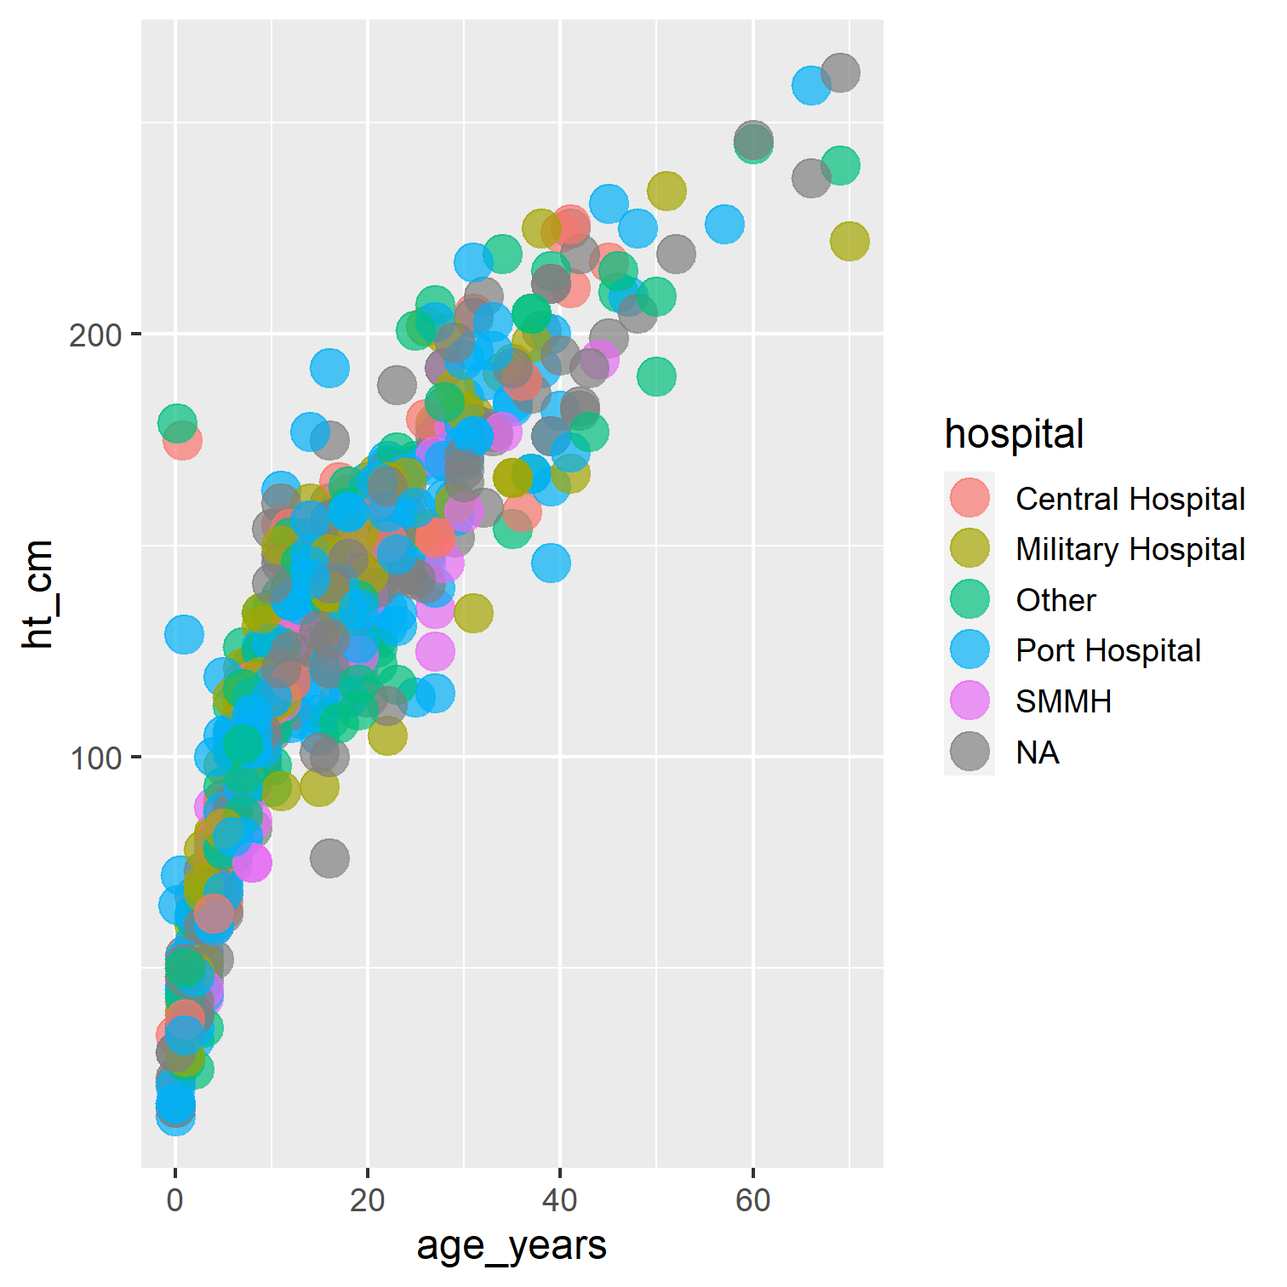
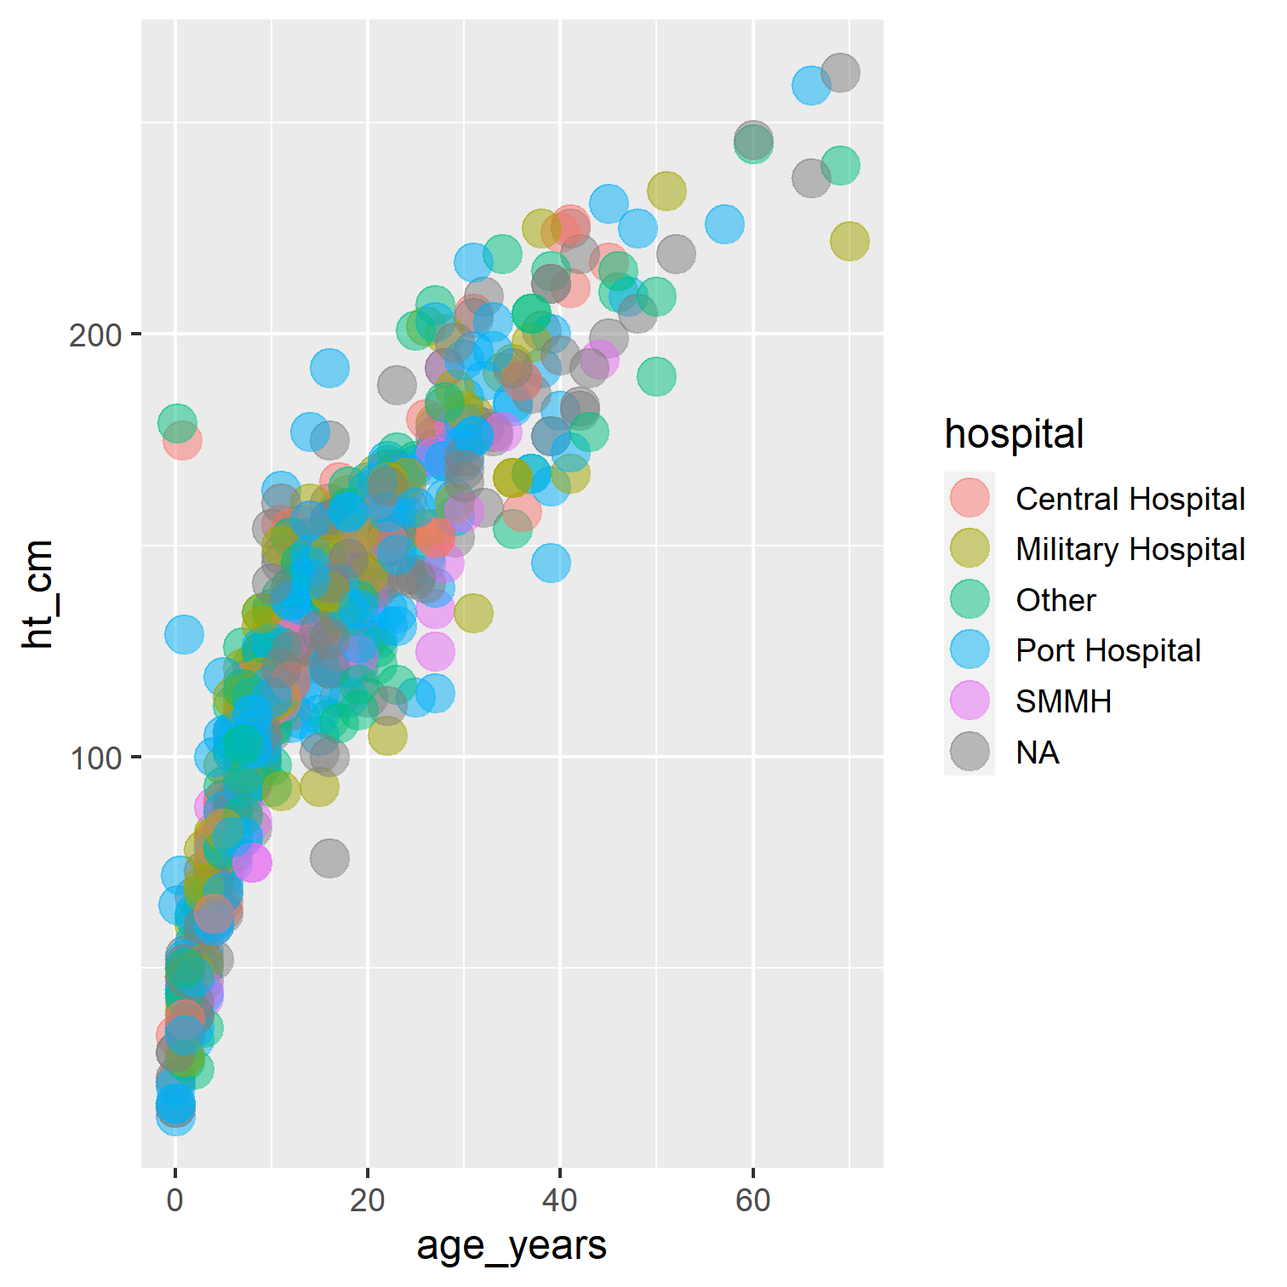
minor_updates

diff --git a/intro/full_text/intro5_1/intro5_1.html b/intro/full_text/intro5_1/intro5_1.html
@@ -78,7 +78,7 @@ contact@appliedepi.org
 * Build simple box/scatter/bar plots and histograms
 * Adjust the scales, themes, and labels of the plots
 
-&lt;div class="tabwid"&gt;&lt;style&gt;.cl-b065eaa6{}.cl-b05a17c6{font-family:'Arial';font-size:11pt;font-weight:normal;font-style:normal;text-decoration:none;color:rgba(0, 0, 0, 1.00);background-color:transparent;}.cl-b05e81f8{margin:0;text-align:left;border-bottom: 0 solid rgba(0, 0, 0, 1.00);border-top: 0 solid rgba(0, 0, 0, 1.00);border-left: 0 solid rgba(0, 0, 0, 1.00);border-right: 0 solid rgba(0, 0, 0, 1.00);padding-bottom:5pt;padding-top:5pt;padding-left:5pt;padding-right:5pt;line-height: 1;background-color:transparent;}.cl-b05e820c{margin:0;text-align:left;border-bottom: 0 solid rgba(0, 0, 0, 1.00);border-top: 0 solid rgba(0, 0, 0, 1.00);border-left: 0 solid rgba(0, 0, 0, 1.00);border-right: 0 solid rgba(0, 0, 0, 1.00);padding-bottom:5pt;padding-top:5pt;padding-left:5pt;padding-right:5pt;line-height: 1;background-color:transparent;}.cl-b05e9b16{width:1.296in;background-color:transparent;vertical-align: middle;border-bottom: 1.5pt solid rgba(102, 102, 102, 1.00);border-top: 1.5pt solid rgba(102, 102, 102, 1.00);border-left: 0 solid rgba(0, 0, 0, 1.00);border-right: 0 solid rgba(0, 0, 0, 1.00);margin-bottom:0;margin-top:0;margin-left:0;margin-right:0;}.cl-b05e9b20{width:0.693in;background-color:transparent;vertical-align: middle;border-bottom: 1.5pt solid rgba(102, 102, 102, 1.00);border-top: 1.5pt solid rgba(102, 102, 102, 1.00);border-left: 0 solid rgba(0, 0, 0, 1.00);border-right: 0 solid rgba(0, 0, 0, 1.00);margin-bottom:0;margin-top:0;margin-left:0;margin-right:0;}.cl-b05e9b21{width:2.857in;background-color:transparent;vertical-align: middle;border-bottom: 1.5pt solid rgba(102, 102, 102, 1.00);border-top: 1.5pt solid rgba(102, 102, 102, 1.00);border-left: 0 solid rgba(0, 0, 0, 1.00);border-right: 0 solid rgba(0, 0, 0, 1.00);margin-bottom:0;margin-top:0;margin-left:0;margin-right:0;}.cl-b05e9b22{width:1.296in;background-color:transparent;vertical-align: middle;border-bottom: 0 solid rgba(0, 0, 0, 1.00);border-top: 0 solid rgba(0, 0, 0, 1.00);border-left: 0 solid rgba(0, 0, 0, 1.00);border-right: 0 solid rgba(0, 0, 0, 1.00);margin-bottom:0;margin-top:0;margin-left:0;margin-right:0;}.cl-b05e9b2a{width:0.693in;background-color:transparent;vertical-align: top;border-bottom: 0 solid rgba(0, 0, 0, 1.00);border-top: 0 solid rgba(0, 0, 0, 1.00);border-left: 0 solid rgba(0, 0, 0, 1.00);border-right: 0 solid rgba(0, 0, 0, 1.00);margin-bottom:0;margin-top:0;margin-left:0;margin-right:0;}.cl-b05e9b2b{width:2.857in;background-color:transparent;vertical-align: middle;border-bottom: 0 solid rgba(0, 0, 0, 1.00);border-top: 0 solid rgba(0, 0, 0, 1.00);border-left: 0 solid rgba(0, 0, 0, 1.00);border-right: 0 solid rgba(0, 0, 0, 1.00);margin-bottom:0;margin-top:0;margin-left:0;margin-right:0;}.cl-b05e9b34{width:1.296in;background-color:transparent;vertical-align: middle;border-bottom: 0 solid rgba(0, 0, 0, 1.00);border-top: 0 solid rgba(0, 0, 0, 1.00);border-left: 0 solid rgba(0, 0, 0, 1.00);border-right: 0 solid rgba(0, 0, 0, 1.00);margin-bottom:0;margin-top:0;margin-left:0;margin-right:0;}.cl-b05e9b35{width:0.693in;background-color:transparent;vertical-align: top;border-bottom: 0 solid rgba(0, 0, 0, 1.00);border-top: 0 solid rgba(0, 0, 0, 1.00);border-left: 0 solid rgba(0, 0, 0, 1.00);border-right: 0 solid rgba(0, 0, 0, 1.00);margin-bottom:0;margin-top:0;margin-left:0;margin-right:0;}.cl-b05e9b3e{width:2.857in;background-color:transparent;vertical-align: middle;border-bottom: 0 solid rgba(0, 0, 0, 1.00);border-top: 0 solid rgba(0, 0, 0, 1.00);border-left: 0 solid rgba(0, 0, 0, 1.00);border-right: 0 solid rgba(0, 0, 0, 1.00);margin-bottom:0;margin-top:0;margin-left:0;margin-right:0;}.cl-b05e9b3f{width:1.296in;background-color:transparent;vertical-align: middle;border-bottom: 0 solid rgba(0, 0, 0, 1.00);border-top: 0 solid rgba(0, 0, 0, 1.00);border-left: 0 solid rgba(0, 0, 0, 1.00);border-right: 0 solid rgba(0, 0, 0, 1.00);margin-bottom:0;margin-top:0;margin-left:0;margin-right:0;}.cl-b05e9b48{width:0.693in;background-color:transparent;vertical-align: top;border-bottom: 0 solid rgba(0, 0, 0, 1.00);border-top: 0 solid rgba(0, 0, 0, 1.00);border-left: 0 solid rgba(0, 0, 0, 1.00);border-right: 0 solid rgba(0, 0, 0, 1.00);margin-bottom:0;margin-top:0;margin-left:0;margin-right:0;}.cl-b05e9b49{width:2.857in;background-color:transparent;vertical-align: middle;border-bottom: 0 solid rgba(0, 0, 0, 1.00);border-top: 0 solid rgba(0, 0, 0, 1.00);border-left: 0 solid rgba(0, 0, 0, 1.00);border-right: 0 solid rgba(0, 0, 0, 1.00);margin-bottom:0;margin-top:0;margin-left:0;margin-right:0;}.cl-b05e9b52{width:1.296in;background-color:transparent;vertical-align: middle;border-bottom: 0 solid rgba(0, 0, 0, 1.00);border-top: 0 solid rgba(0, 0, 0, 1.00);border-left: 0 solid rgba(0, 0, 0, 1.00);border-right: 0 solid rgba(0, 0, 0, 1.00);margin-bottom:0;margin-top:0;margin-left:0;margin-right:0;}.cl-b05e9b53{width:0.693in;background-color:transparent;vertical-align: top;border-bottom: 0 solid rgba(0, 0, 0, 1.00);border-top: 0 solid rgba(0, 0, 0, 1.00);border-left: 0 solid rgba(0, 0, 0, 1.00);border-right: 0 solid rgba(0, 0, 0, 1.00);margin-bottom:0;margin-top:0;margin-left:0;margin-right:0;}.cl-b05e9b54{width:2.857in;background-color:transparent;vertical-align: middle;border-bottom: 0 solid rgba(0, 0, 0, 1.00);border-top: 0 solid rgba(0, 0, 0, 1.00);border-left: 0 solid rgba(0, 0, 0, 1.00);border-right: 0 solid rgba(0, 0, 0, 1.00);margin-bottom:0;margin-top:0;margin-left:0;margin-right:0;}.cl-b05e9b5c{width:1.296in;background-color:transparent;vertical-align: middle;border-bottom: 0 solid rgba(0, 0, 0, 1.00);border-top: 0 solid rgba(0, 0, 0, 1.00);border-left: 0 solid rgba(0, 0, 0, 1.00);border-right: 0 solid rgba(0, 0, 0, 1.00);margin-bottom:0;margin-top:0;margin-left:0;margin-right:0;}.cl-b05e9b5d{width:0.693in;background-color:transparent;vertical-align: top;border-bottom: 0 solid rgba(0, 0, 0, 1.00);border-top: 0 solid rgba(0, 0, 0, 1.00);border-left: 0 solid rgba(0, 0, 0, 1.00);border-right: 0 solid rgba(0, 0, 0, 1.00);margin-bottom:0;margin-top:0;margin-left:0;margin-right:0;}.cl-b05e9b66{width:2.857in;background-color:transparent;vertical-align: middle;border-bottom: 0 solid rgba(0, 0, 0, 1.00);border-top: 0 solid rgba(0, 0, 0, 1.00);border-left: 0 solid rgba(0, 0, 0, 1.00);border-right: 0 solid rgba(0, 0, 0, 1.00);margin-bottom:0;margin-top:0;margin-left:0;margin-right:0;}.cl-b05e9b67{width:1.296in;background-color:transparent;vertical-align: middle;border-bottom: 1.5pt solid rgba(102, 102, 102, 1.00);border-top: 0 solid rgba(0, 0, 0, 1.00);border-left: 0 solid rgba(0, 0, 0, 1.00);border-right: 0 solid rgba(0, 0, 0, 1.00);margin-bottom:0;margin-top:0;margin-left:0;margin-right:0;}.cl-b05e9b68{width:0.693in;background-color:transparent;vertical-align: top;border-bottom: 1.5pt solid rgba(102, 102, 102, 1.00);border-top: 0 solid rgba(0, 0, 0, 1.00);border-left: 0 solid rgba(0, 0, 0, 1.00);border-right: 0 solid rgba(0, 0, 0, 1.00);margin-bottom:0;margin-top:0;margin-left:0;margin-right:0;}.cl-b05e9b70{width:2.857in;background-color:transparent;vertical-align: middle;border-bottom: 1.5pt solid rgba(102, 102, 102, 1.00);border-top: 0 solid rgba(0, 0, 0, 1.00);border-left: 0 solid rgba(0, 0, 0, 1.00);border-right: 0 solid rgba(0, 0, 0, 1.00);margin-bottom:0;margin-top:0;margin-left:0;margin-right:0;}.cl-b05e9b71{width:1.296in;background-color:transparent;vertical-align: middle;border-bottom: 0 solid rgba(255, 255, 255, 0.00);border-top: 0 solid rgba(255, 255, 255, 0.00);border-left: 0 solid rgba(255, 255, 255, 0.00);border-right: 0 solid rgba(255, 255, 255, 0.00);margin-bottom:0;margin-top:0;margin-left:0;margin-right:0;}.cl-b05e9b7a{width:0.693in;background-color:transparent;vertical-align: middle;border-bottom: 0 solid rgba(255, 255, 255, 0.00);border-top: 0 solid rgba(255, 255, 255, 0.00);border-left: 0 solid rgba(255, 255, 255, 0.00);border-right: 0 solid rgba(255, 255, 255, 0.00);margin-bottom:0;margin-top:0;margin-left:0;margin-right:0;}.cl-b05e9b7b{width:2.857in;background-color:transparent;vertical-align: middle;border-bottom: 0 solid rgba(255, 255, 255, 0.00);border-top: 0 solid rgba(255, 255, 255, 0.00);border-left: 0 solid rgba(255, 255, 255, 0.00);border-right: 0 solid rgba(255, 255, 255, 0.00);margin-bottom:0;margin-top:0;margin-left:0;margin-right:0;}&lt;/style&gt;&lt;table data-quarto-disable-processing='true' class='cl-b065eaa6'&gt;&lt;thead&gt;&lt;tr style="overflow-wrap:break-word;"&gt;&lt;th class="cl-b05e9b16"&gt;&lt;p class="cl-b05e81f8"&gt;&lt;span class="cl-b05a17c6"&gt;Time&lt;/span&gt;&lt;/p&gt;&lt;/th&gt;&lt;th class="cl-b05e9b20"&gt;&lt;p class="cl-b05e81f8"&gt;&lt;span class="cl-b05a17c6"&gt;Part&lt;/span&gt;&lt;/p&gt;&lt;/th&gt;&lt;th class="cl-b05e9b21"&gt;&lt;p class="cl-b05e81f8"&gt;&lt;span class="cl-b05a17c6"&gt;Topic&lt;/span&gt;&lt;/p&gt;&lt;/th&gt;&lt;/tr&gt;&lt;/thead&gt;&lt;tbody&gt;&lt;tr style="overflow-wrap:break-word;"&gt;&lt;td class="cl-b05e9b22"&gt;&lt;p class="cl-b05e81f8"&gt;&lt;span class="cl-b05a17c6"&gt;20 minutes&lt;/span&gt;&lt;/p&gt;&lt;/td&gt;&lt;td  rowspan="3"class="cl-b05e9b2a"&gt;&lt;p class="cl-b05e820c"&gt;&lt;span class="cl-b05a17c6"&gt;Part 1&lt;/span&gt;&lt;/p&gt;&lt;/td&gt;&lt;td class="cl-b05e9b2b"&gt;&lt;p class="cl-b05e81f8"&gt;&lt;span class="cl-b05a17c6"&gt;Slides: ggplot2 'Grammar of Graphics'&lt;/span&gt;&lt;/p&gt;&lt;/td&gt;&lt;/tr&gt;&lt;tr style="overflow-wrap:break-word;"&gt;&lt;td class="cl-b05e9b34"&gt;&lt;p class="cl-b05e81f8"&gt;&lt;span class="cl-b05a17c6"&gt;10 minutes&lt;/span&gt;&lt;/p&gt;&lt;/td&gt;&lt;td class="cl-b05e9b3e"&gt;&lt;p class="cl-b05e81f8"&gt;&lt;span class="cl-b05a17c6"&gt;Demo&lt;/span&gt;&lt;/p&gt;&lt;/td&gt;&lt;/tr&gt;&lt;tr style="overflow-wrap:break-word;"&gt;&lt;td class="cl-b05e9b3f"&gt;&lt;p class="cl-b05e81f8"&gt;&lt;span class="cl-b05a17c6"&gt;1hr 30 minutes&lt;/span&gt;&lt;/p&gt;&lt;/td&gt;&lt;td class="cl-b05e9b49"&gt;&lt;p class="cl-b05e81f8"&gt;&lt;span class="cl-b05a17c6"&gt;Exercise&lt;/span&gt;&lt;/p&gt;&lt;/td&gt;&lt;/tr&gt;&lt;tr style="overflow-wrap:break-word;"&gt;&lt;td class="cl-b05e9b52"&gt;&lt;p class="cl-b05e81f8"&gt;&lt;span class="cl-b05a17c6"&gt;20 minutes&lt;/span&gt;&lt;/p&gt;&lt;/td&gt;&lt;td class="cl-b05e9b53"&gt;&lt;p class="cl-b05e820c"&gt;&lt;span class="cl-b05a17c6"&gt;Part 2&lt;/span&gt;&lt;/p&gt;&lt;/td&gt;&lt;td class="cl-b05e9b54"&gt;&lt;p class="cl-b05e81f8"&gt;&lt;span class="cl-b05a17c6"&gt;Slides: Scales, themes &amp;amp; labels&lt;/span&gt;&lt;/p&gt;&lt;/td&gt;&lt;/tr&gt;&lt;tr style="overflow-wrap:break-word;"&gt;&lt;td class="cl-b05e9b5c"&gt;&lt;p class="cl-b05e81f8"&gt;&lt;span class="cl-b05a17c6"&gt;1 hour&lt;/span&gt;&lt;/p&gt;&lt;/td&gt;&lt;td class="cl-b05e9b5d"&gt;&lt;p class="cl-b05e820c"&gt;&lt;span class="cl-b05a17c6"&gt;&lt;/span&gt;&lt;/p&gt;&lt;/td&gt;&lt;td class="cl-b05e9b66"&gt;&lt;p class="cl-b05e81f8"&gt;&lt;span class="cl-b05a17c6"&gt;Exercise&lt;/span&gt;&lt;/p&gt;&lt;/td&gt;&lt;/tr&gt;&lt;tr style="overflow-wrap:break-word;"&gt;&lt;td class="cl-b05e9b67"&gt;&lt;p class="cl-b05e81f8"&gt;&lt;span class="cl-b05a17c6"&gt;10 minutes&lt;/span&gt;&lt;/p&gt;&lt;/td&gt;&lt;td class="cl-b05e9b68"&gt;&lt;p class="cl-b05e820c"&gt;&lt;span class="cl-b05a17c6"&gt;-&lt;/span&gt;&lt;/p&gt;&lt;/td&gt;&lt;td class="cl-b05e9b70"&gt;&lt;p class="cl-b05e81f8"&gt;&lt;span class="cl-b05a17c6"&gt;Debrief&lt;/span&gt;&lt;/p&gt;&lt;/td&gt;&lt;/tr&gt;&lt;/tbody&gt;&lt;tfoot&gt;&lt;tr style="overflow-wrap:break-word;"&gt;&lt;td  colspan="3"class="cl-b05e9b71"&gt;&lt;p class="cl-b05e81f8"&gt;&lt;span class="cl-b05a17c6"&gt;Take breaks as you wish during the exercise&lt;/span&gt;&lt;/p&gt;&lt;/td&gt;&lt;/tr&gt;&lt;/tfoot&gt;&lt;/table&gt;&lt;/div&gt;
+&lt;div class="tabwid"&gt;&lt;style&gt;.cl-3c37b7f8{}.cl-3c2fe596{font-family:'Arial';font-size:11pt;font-weight:normal;font-style:normal;text-decoration:none;color:rgba(0, 0, 0, 1.00);background-color:transparent;}.cl-3c32e412{margin:0;text-align:left;border-bottom: 0 solid rgba(0, 0, 0, 1.00);border-top: 0 solid rgba(0, 0, 0, 1.00);border-left: 0 solid rgba(0, 0, 0, 1.00);border-right: 0 solid rgba(0, 0, 0, 1.00);padding-bottom:5pt;padding-top:5pt;padding-left:5pt;padding-right:5pt;line-height: 1;background-color:transparent;}.cl-3c32e41c{margin:0;text-align:left;border-bottom: 0 solid rgba(0, 0, 0, 1.00);border-top: 0 solid rgba(0, 0, 0, 1.00);border-left: 0 solid rgba(0, 0, 0, 1.00);border-right: 0 solid rgba(0, 0, 0, 1.00);padding-bottom:5pt;padding-top:5pt;padding-left:5pt;padding-right:5pt;line-height: 1;background-color:transparent;}.cl-3c32f650{width:1.296in;background-color:transparent;vertical-align: middle;border-bottom: 1.5pt solid rgba(102, 102, 102, 1.00);border-top: 1.5pt solid rgba(102, 102, 102, 1.00);border-left: 0 solid rgba(0, 0, 0, 1.00);border-right: 0 solid rgba(0, 0, 0, 1.00);margin-bottom:0;margin-top:0;margin-left:0;margin-right:0;}.cl-3c32f65a{width:0.693in;background-color:transparent;vertical-align: middle;border-bottom: 1.5pt solid rgba(102, 102, 102, 1.00);border-top: 1.5pt solid rgba(102, 102, 102, 1.00);border-left: 0 solid rgba(0, 0, 0, 1.00);border-right: 0 solid rgba(0, 0, 0, 1.00);margin-bottom:0;margin-top:0;margin-left:0;margin-right:0;}.cl-3c32f65b{width:2.857in;background-color:transparent;vertical-align: middle;border-bottom: 1.5pt solid rgba(102, 102, 102, 1.00);border-top: 1.5pt solid rgba(102, 102, 102, 1.00);border-left: 0 solid rgba(0, 0, 0, 1.00);border-right: 0 solid rgba(0, 0, 0, 1.00);margin-bottom:0;margin-top:0;margin-left:0;margin-right:0;}.cl-3c32f664{width:1.296in;background-color:transparent;vertical-align: middle;border-bottom: 0 solid rgba(0, 0, 0, 1.00);border-top: 0 solid rgba(0, 0, 0, 1.00);border-left: 0 solid rgba(0, 0, 0, 1.00);border-right: 0 solid rgba(0, 0, 0, 1.00);margin-bottom:0;margin-top:0;margin-left:0;margin-right:0;}.cl-3c32f665{width:0.693in;background-color:transparent;vertical-align: top;border-bottom: 0 solid rgba(0, 0, 0, 1.00);border-top: 0 solid rgba(0, 0, 0, 1.00);border-left: 0 solid rgba(0, 0, 0, 1.00);border-right: 0 solid rgba(0, 0, 0, 1.00);margin-bottom:0;margin-top:0;margin-left:0;margin-right:0;}.cl-3c32f66e{width:2.857in;background-color:transparent;vertical-align: middle;border-bottom: 0 solid rgba(0, 0, 0, 1.00);border-top: 0 solid rgba(0, 0, 0, 1.00);border-left: 0 solid rgba(0, 0, 0, 1.00);border-right: 0 solid rgba(0, 0, 0, 1.00);margin-bottom:0;margin-top:0;margin-left:0;margin-right:0;}.cl-3c32f66f{width:1.296in;background-color:transparent;vertical-align: middle;border-bottom: 0 solid rgba(0, 0, 0, 1.00);border-top: 0 solid rgba(0, 0, 0, 1.00);border-left: 0 solid rgba(0, 0, 0, 1.00);border-right: 0 solid rgba(0, 0, 0, 1.00);margin-bottom:0;margin-top:0;margin-left:0;margin-right:0;}.cl-3c32f670{width:0.693in;background-color:transparent;vertical-align: top;border-bottom: 0 solid rgba(0, 0, 0, 1.00);border-top: 0 solid rgba(0, 0, 0, 1.00);border-left: 0 solid rgba(0, 0, 0, 1.00);border-right: 0 solid rgba(0, 0, 0, 1.00);margin-bottom:0;margin-top:0;margin-left:0;margin-right:0;}.cl-3c32f678{width:2.857in;background-color:transparent;vertical-align: middle;border-bottom: 0 solid rgba(0, 0, 0, 1.00);border-top: 0 solid rgba(0, 0, 0, 1.00);border-left: 0 solid rgba(0, 0, 0, 1.00);border-right: 0 solid rgba(0, 0, 0, 1.00);margin-bottom:0;margin-top:0;margin-left:0;margin-right:0;}.cl-3c32f679{width:1.296in;background-color:transparent;vertical-align: middle;border-bottom: 0 solid rgba(0, 0, 0, 1.00);border-top: 0 solid rgba(0, 0, 0, 1.00);border-left: 0 solid rgba(0, 0, 0, 1.00);border-right: 0 solid rgba(0, 0, 0, 1.00);margin-bottom:0;margin-top:0;margin-left:0;margin-right:0;}.cl-3c32f67a{width:0.693in;background-color:transparent;vertical-align: top;border-bottom: 0 solid rgba(0, 0, 0, 1.00);border-top: 0 solid rgba(0, 0, 0, 1.00);border-left: 0 solid rgba(0, 0, 0, 1.00);border-right: 0 solid rgba(0, 0, 0, 1.00);margin-bottom:0;margin-top:0;margin-left:0;margin-right:0;}.cl-3c32f67b{width:2.857in;background-color:transparent;vertical-align: middle;border-bottom: 0 solid rgba(0, 0, 0, 1.00);border-top: 0 solid rgba(0, 0, 0, 1.00);border-left: 0 solid rgba(0, 0, 0, 1.00);border-right: 0 solid rgba(0, 0, 0, 1.00);margin-bottom:0;margin-top:0;margin-left:0;margin-right:0;}.cl-3c32f682{width:1.296in;background-color:transparent;vertical-align: middle;border-bottom: 0 solid rgba(0, 0, 0, 1.00);border-top: 0 solid rgba(0, 0, 0, 1.00);border-left: 0 solid rgba(0, 0, 0, 1.00);border-right: 0 solid rgba(0, 0, 0, 1.00);margin-bottom:0;margin-top:0;margin-left:0;margin-right:0;}.cl-3c32f683{width:0.693in;background-color:transparent;vertical-align: top;border-bottom: 0 solid rgba(0, 0, 0, 1.00);border-top: 0 solid rgba(0, 0, 0, 1.00);border-left: 0 solid rgba(0, 0, 0, 1.00);border-right: 0 solid rgba(0, 0, 0, 1.00);margin-bottom:0;margin-top:0;margin-left:0;margin-right:0;}.cl-3c32f68c{width:2.857in;background-color:transparent;vertical-align: middle;border-bottom: 0 solid rgba(0, 0, 0, 1.00);border-top: 0 solid rgba(0, 0, 0, 1.00);border-left: 0 solid rgba(0, 0, 0, 1.00);border-right: 0 solid rgba(0, 0, 0, 1.00);margin-bottom:0;margin-top:0;margin-left:0;margin-right:0;}.cl-3c32f68d{width:1.296in;background-color:transparent;vertical-align: middle;border-bottom: 0 solid rgba(0, 0, 0, 1.00);border-top: 0 solid rgba(0, 0, 0, 1.00);border-left: 0 solid rgba(0, 0, 0, 1.00);border-right: 0 solid rgba(0, 0, 0, 1.00);margin-bottom:0;margin-top:0;margin-left:0;margin-right:0;}.cl-3c32f68e{width:0.693in;background-color:transparent;vertical-align: top;border-bottom: 0 solid rgba(0, 0, 0, 1.00);border-top: 0 solid rgba(0, 0, 0, 1.00);border-left: 0 solid rgba(0, 0, 0, 1.00);border-right: 0 solid rgba(0, 0, 0, 1.00);margin-bottom:0;margin-top:0;margin-left:0;margin-right:0;}.cl-3c32f696{width:2.857in;background-color:transparent;vertical-align: middle;border-bottom: 0 solid rgba(0, 0, 0, 1.00);border-top: 0 solid rgba(0, 0, 0, 1.00);border-left: 0 solid rgba(0, 0, 0, 1.00);border-right: 0 solid rgba(0, 0, 0, 1.00);margin-bottom:0;margin-top:0;margin-left:0;margin-right:0;}.cl-3c32f697{width:1.296in;background-color:transparent;vertical-align: middle;border-bottom: 1.5pt solid rgba(102, 102, 102, 1.00);border-top: 0 solid rgba(0, 0, 0, 1.00);border-left: 0 solid rgba(0, 0, 0, 1.00);border-right: 0 solid rgba(0, 0, 0, 1.00);margin-bottom:0;margin-top:0;margin-left:0;margin-right:0;}.cl-3c32f698{width:0.693in;background-color:transparent;vertical-align: top;border-bottom: 1.5pt solid rgba(102, 102, 102, 1.00);border-top: 0 solid rgba(0, 0, 0, 1.00);border-left: 0 solid rgba(0, 0, 0, 1.00);border-right: 0 solid rgba(0, 0, 0, 1.00);margin-bottom:0;margin-top:0;margin-left:0;margin-right:0;}.cl-3c32f699{width:2.857in;background-color:transparent;vertical-align: middle;border-bottom: 1.5pt solid rgba(102, 102, 102, 1.00);border-top: 0 solid rgba(0, 0, 0, 1.00);border-left: 0 solid rgba(0, 0, 0, 1.00);border-right: 0 solid rgba(0, 0, 0, 1.00);margin-bottom:0;margin-top:0;margin-left:0;margin-right:0;}.cl-3c32f6a0{width:1.296in;background-color:transparent;vertical-align: middle;border-bottom: 0 solid rgba(255, 255, 255, 0.00);border-top: 0 solid rgba(255, 255, 255, 0.00);border-left: 0 solid rgba(255, 255, 255, 0.00);border-right: 0 solid rgba(255, 255, 255, 0.00);margin-bottom:0;margin-top:0;margin-left:0;margin-right:0;}.cl-3c32f6a1{width:0.693in;background-color:transparent;vertical-align: middle;border-bottom: 0 solid rgba(255, 255, 255, 0.00);border-top: 0 solid rgba(255, 255, 255, 0.00);border-left: 0 solid rgba(255, 255, 255, 0.00);border-right: 0 solid rgba(255, 255, 255, 0.00);margin-bottom:0;margin-top:0;margin-left:0;margin-right:0;}.cl-3c32f6a2{width:2.857in;background-color:transparent;vertical-align: middle;border-bottom: 0 solid rgba(255, 255, 255, 0.00);border-top: 0 solid rgba(255, 255, 255, 0.00);border-left: 0 solid rgba(255, 255, 255, 0.00);border-right: 0 solid rgba(255, 255, 255, 0.00);margin-bottom:0;margin-top:0;margin-left:0;margin-right:0;}&lt;/style&gt;&lt;table data-quarto-disable-processing='true' class='cl-3c37b7f8'&gt;&lt;thead&gt;&lt;tr style="overflow-wrap:break-word;"&gt;&lt;th class="cl-3c32f650"&gt;&lt;p class="cl-3c32e412"&gt;&lt;span class="cl-3c2fe596"&gt;Time&lt;/span&gt;&lt;/p&gt;&lt;/th&gt;&lt;th class="cl-3c32f65a"&gt;&lt;p class="cl-3c32e412"&gt;&lt;span class="cl-3c2fe596"&gt;Part&lt;/span&gt;&lt;/p&gt;&lt;/th&gt;&lt;th class="cl-3c32f65b"&gt;&lt;p class="cl-3c32e412"&gt;&lt;span class="cl-3c2fe596"&gt;Topic&lt;/span&gt;&lt;/p&gt;&lt;/th&gt;&lt;/tr&gt;&lt;/thead&gt;&lt;tbody&gt;&lt;tr style="overflow-wrap:break-word;"&gt;&lt;td class="cl-3c32f664"&gt;&lt;p class="cl-3c32e412"&gt;&lt;span class="cl-3c2fe596"&gt;20 minutes&lt;/span&gt;&lt;/p&gt;&lt;/td&gt;&lt;td  rowspan="3"class="cl-3c32f665"&gt;&lt;p class="cl-3c32e41c"&gt;&lt;span class="cl-3c2fe596"&gt;Part 1&lt;/span&gt;&lt;/p&gt;&lt;/td&gt;&lt;td class="cl-3c32f66e"&gt;&lt;p class="cl-3c32e412"&gt;&lt;span class="cl-3c2fe596"&gt;Slides: ggplot2 'Grammar of Graphics'&lt;/span&gt;&lt;/p&gt;&lt;/td&gt;&lt;/tr&gt;&lt;tr style="overflow-wrap:break-word;"&gt;&lt;td class="cl-3c32f66f"&gt;&lt;p class="cl-3c32e412"&gt;&lt;span class="cl-3c2fe596"&gt;10 minutes&lt;/span&gt;&lt;/p&gt;&lt;/td&gt;&lt;td class="cl-3c32f678"&gt;&lt;p class="cl-3c32e412"&gt;&lt;span class="cl-3c2fe596"&gt;Demo&lt;/span&gt;&lt;/p&gt;&lt;/td&gt;&lt;/tr&gt;&lt;tr style="overflow-wrap:break-word;"&gt;&lt;td class="cl-3c32f679"&gt;&lt;p class="cl-3c32e412"&gt;&lt;span class="cl-3c2fe596"&gt;1hr 30 minutes&lt;/span&gt;&lt;/p&gt;&lt;/td&gt;&lt;td class="cl-3c32f67b"&gt;&lt;p class="cl-3c32e412"&gt;&lt;span class="cl-3c2fe596"&gt;Exercise&lt;/span&gt;&lt;/p&gt;&lt;/td&gt;&lt;/tr&gt;&lt;tr style="overflow-wrap:break-word;"&gt;&lt;td class="cl-3c32f682"&gt;&lt;p class="cl-3c32e412"&gt;&lt;span class="cl-3c2fe596"&gt;20 minutes&lt;/span&gt;&lt;/p&gt;&lt;/td&gt;&lt;td class="cl-3c32f683"&gt;&lt;p class="cl-3c32e41c"&gt;&lt;span class="cl-3c2fe596"&gt;Part 2&lt;/span&gt;&lt;/p&gt;&lt;/td&gt;&lt;td class="cl-3c32f68c"&gt;&lt;p class="cl-3c32e412"&gt;&lt;span class="cl-3c2fe596"&gt;Slides: Scales, themes &amp;amp; labels&lt;/span&gt;&lt;/p&gt;&lt;/td&gt;&lt;/tr&gt;&lt;tr style="overflow-wrap:break-word;"&gt;&lt;td class="cl-3c32f68d"&gt;&lt;p class="cl-3c32e412"&gt;&lt;span class="cl-3c2fe596"&gt;1 hour&lt;/span&gt;&lt;/p&gt;&lt;/td&gt;&lt;td class="cl-3c32f68e"&gt;&lt;p class="cl-3c32e41c"&gt;&lt;span class="cl-3c2fe596"&gt;&lt;/span&gt;&lt;/p&gt;&lt;/td&gt;&lt;td class="cl-3c32f696"&gt;&lt;p class="cl-3c32e412"&gt;&lt;span class="cl-3c2fe596"&gt;Exercise&lt;/span&gt;&lt;/p&gt;&lt;/td&gt;&lt;/tr&gt;&lt;tr style="overflow-wrap:break-word;"&gt;&lt;td class="cl-3c32f697"&gt;&lt;p class="cl-3c32e412"&gt;&lt;span class="cl-3c2fe596"&gt;10 minutes&lt;/span&gt;&lt;/p&gt;&lt;/td&gt;&lt;td class="cl-3c32f698"&gt;&lt;p class="cl-3c32e41c"&gt;&lt;span class="cl-3c2fe596"&gt;-&lt;/span&gt;&lt;/p&gt;&lt;/td&gt;&lt;td class="cl-3c32f699"&gt;&lt;p class="cl-3c32e412"&gt;&lt;span class="cl-3c2fe596"&gt;Debrief&lt;/span&gt;&lt;/p&gt;&lt;/td&gt;&lt;/tr&gt;&lt;/tbody&gt;&lt;tfoot&gt;&lt;tr style="overflow-wrap:break-word;"&gt;&lt;td  colspan="3"class="cl-3c32f6a0"&gt;&lt;p class="cl-3c32e412"&gt;&lt;span class="cl-3c2fe596"&gt;Take breaks as you wish during the exercise&lt;/span&gt;&lt;/p&gt;&lt;/td&gt;&lt;/tr&gt;&lt;/tfoot&gt;&lt;/table&gt;&lt;/div&gt;
 
 
 
@@ -1100,7 +1100,7 @@ The change applies to **all** data points.
 
 Written **outside `aes()`**.  
 
-Examples:  
+Other static examples you might use:  
 `size = 3`  
 `alpha = 0.5`  
 `fill = "purple"`  
@@ -1169,10 +1169,10 @@ ggplot(
 *   color = hospital)) +  
 geom_point(
 * size = 7, 
-* alpha = 0.7) 
+* alpha = 0.6) 
 ```
 
-Above, `size = 7` and `alpha = 0.7` are assigned statically, outside `aes()`.  
+Above, `size = 7` and `alpha = 0.5` are assigned statically, outside `aes()`.  
 
 `color=` is assigned to column `hospital`, within `aes()`.  
 
